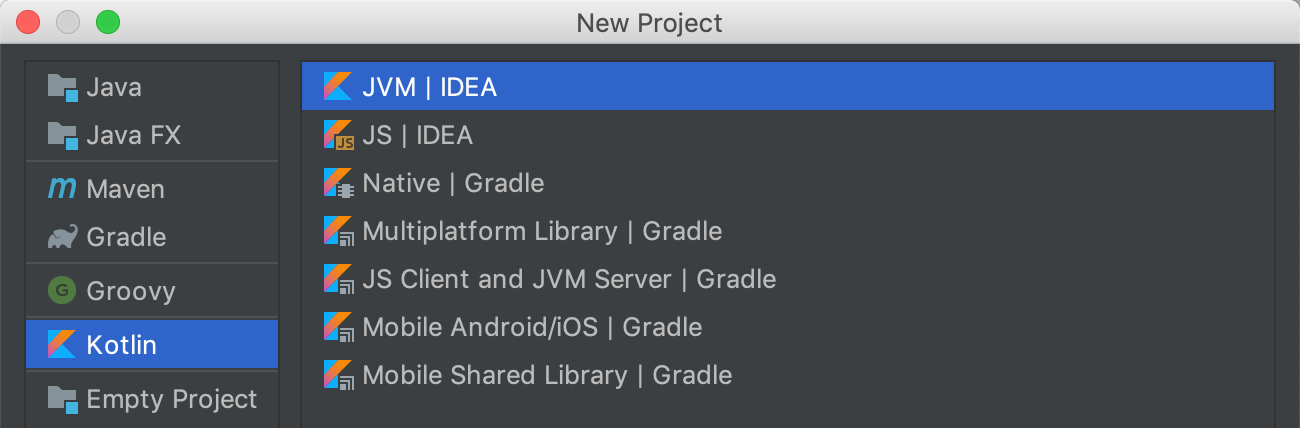
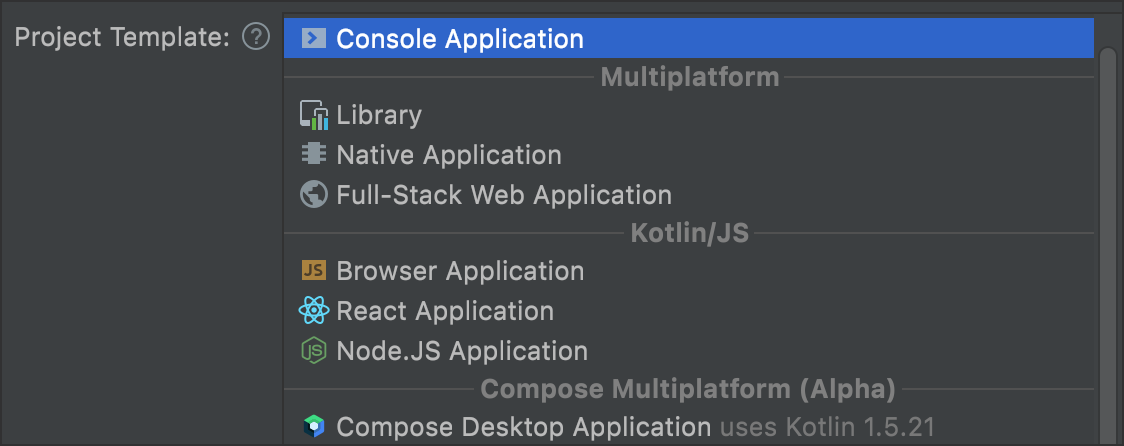
Update tips of the day on Kotlin
GitOrigin-RevId: 77c8b67093c2d2210d38ba62630dd0a63c31c249

diff --git a/idea/resources-en/tips/Kotlin_Java_convert.html b/idea/resources-en/tips/Kotlin_Java_convert.html
@@ -3,8 +3,7 @@
     <link rel="stylesheet" type="text/css" href="css/tips.css">
 </head>
 <body>
-<p>One can easily convert any Java class to the Kotlin one with the same semantics.</p>
-<p>To do that, just choose <span class="control">Code | Convert Java File to Kotlin File</span> on the main menu: </p>
-<p class="image"><img src="images/kotlin_convert.png"></p>
+<p>You can easily convert any Java class to Kotlin with the same semantics.</p>
+<p>To do that, select <span class="control">Code | Convert Java File to Kotlin File</span> from the main menu.</p>
 </body>
 </html>
